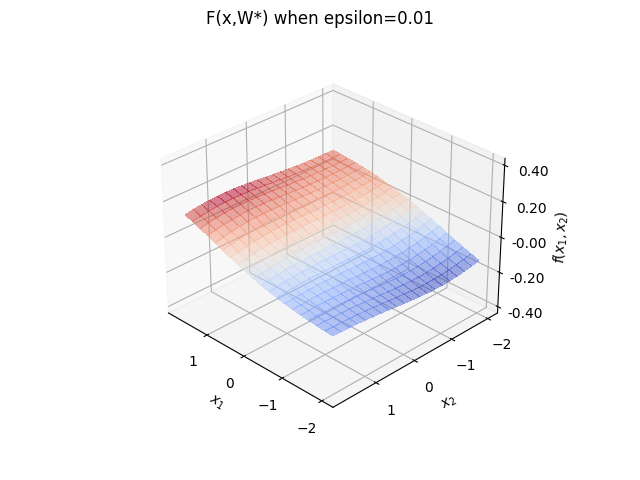
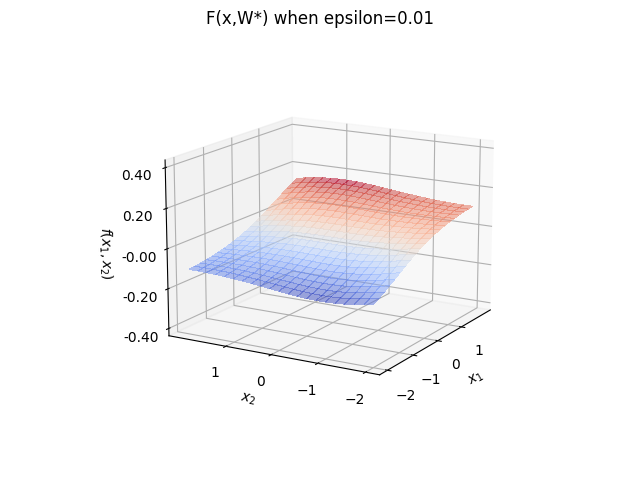
hw3 update plots with azim=210 elev=15

diff --git a/hw3/hw3.py b/hw3/hw3.py
@@ -261,8 +261,8 @@ def plot_func(func_ptr, title="", plot_samples=False, samples=None, predictions=
     fig, ax = plt.subplots(subplot_kw={"projection": "3d"})
 
     # Make data.
-    X_1 = np.arange(-2, 2, 0.2)
-    X_2 = np.arange(-2, 2, 0.2)
+    X_1 = np.arange(-2, 2.02, 0.2)
+    X_2 = np.arange(-2, 2.02, 0.2)
     X_1, X_2 = np.meshgrid(X_1, X_2)
     Z = func_ptr(X_1, X_2)
 
@@ -290,7 +290,7 @@ def plot_func(func_ptr, title="", plot_samples=False, samples=None, predictions=
     ax.set_zlabel(r'$f(x_1,x_2)$')
     ax.set_zticks(np.arange(-2, 2, 0.2))
     ax.set_zlim(-0.42, 0.42)
-    ax.view_init(azim=135,elev=30)
+    ax.view_init(azim=210,elev=15)
 
     plt.suptitle(title)
 
@@ -307,8 +307,8 @@ def plot_model_func_approximation(fwd_func_ptr, model, params_vec, title="", plo
     fig, ax = plt.subplots(subplot_kw={"projection": "3d"})
 
     # Make data.
-    X_1 = np.arange(-2, 2, 0.2)
-    X_2 = np.arange(-2, 2, 0.2)
+    X_1 = np.arange(-2, 2.02, 0.2)
+    X_2 = np.arange(-2, 2.02, 0.2)
     X_1, X_2 = np.meshgrid(X_1, X_2)
     Z_shape = np.shape(X_1)
     Z = np.zeros((Z_shape[0] * Z_shape[1],1))
@@ -337,7 +337,7 @@ def plot_model_func_approximation(fwd_func_ptr, model, params_vec, title="", plo
     ax.set_zlabel(r'$f(x_1,x_2)$')
     ax.set_zticks(np.arange(-2, 2, 0.2))
     ax.set_zlim(-0.42, 0.42)
-    ax.view_init(azim=135,elev=30)
+    ax.view_init(azim=210,elev=15)
 
     plt.suptitle(title)
 
